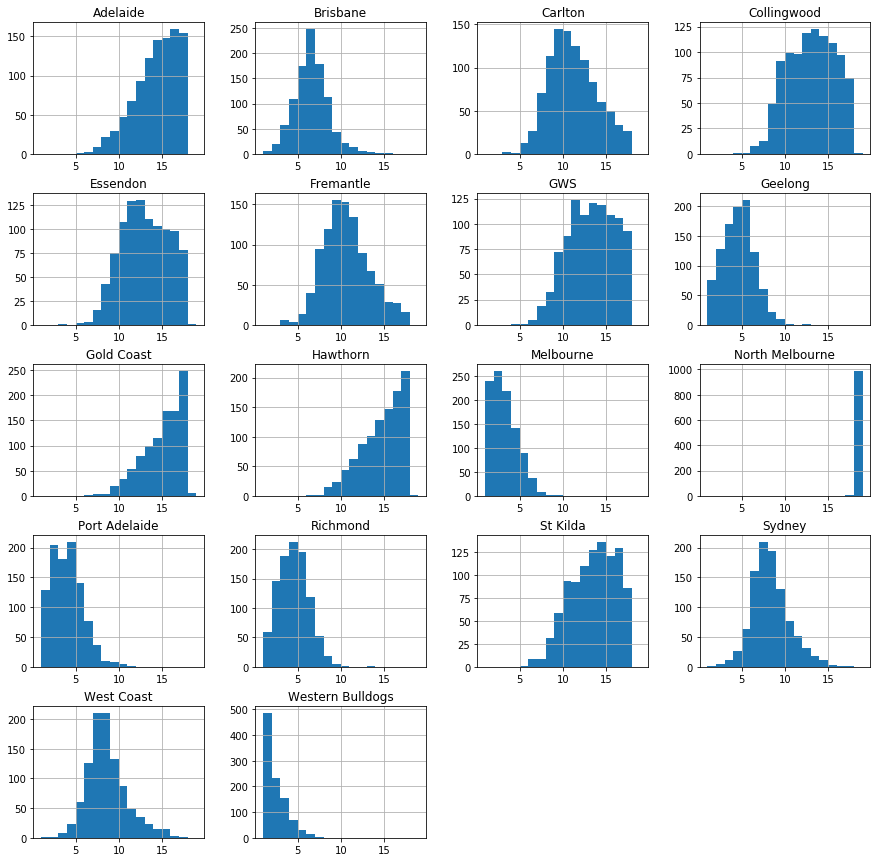
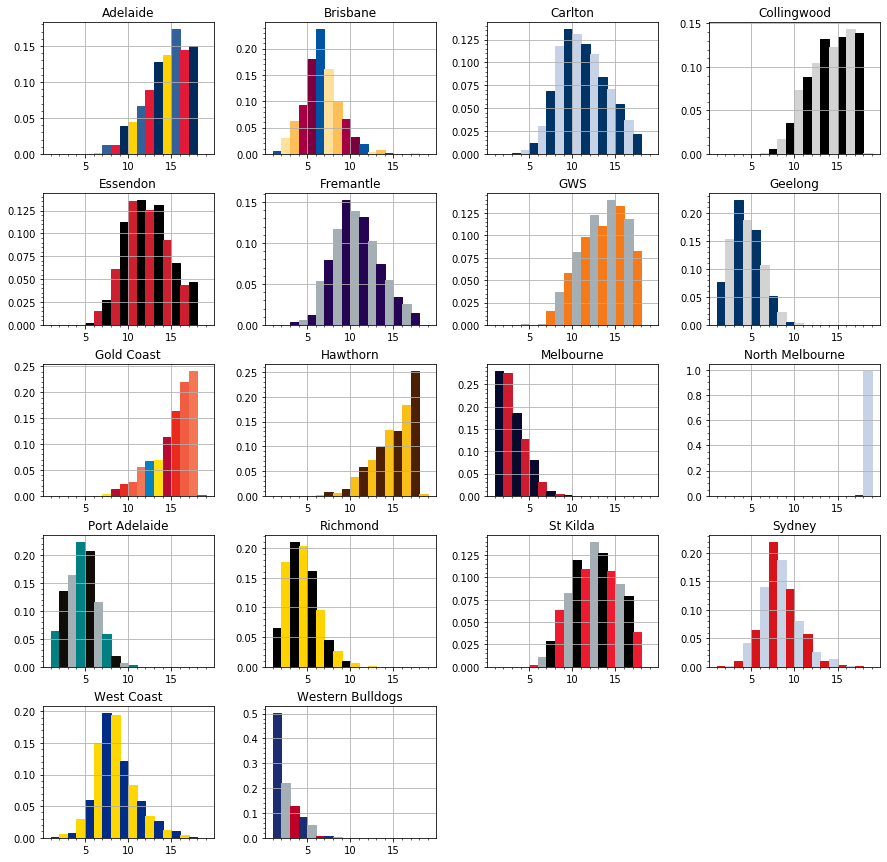
ud

diff --git a/Ladder.py b/Ladder.py
@@ -1,9 +1,9 @@
 from datetime import datetime
 import pandas as pd
 import numpy as np, sys
-from itercools import cycle
+from itertools import cycle
 
-colormap = {'Geelong': () ,
+colormap = {'Geelong': ((0, 51, 102),(211,211,211)) ,
  'Western Bulldogs': ((28, 46, 113),(164, 174, 181), (190, 0, 39)) ,
  'Essendon': ((0, 0, 0),(204, 32, 49)) ,
  'Sydney': ((216, 19, 26),(198, 210, 230)) ,
@@ -13,14 +13,14 @@ colormap = {'Geelong': () ,
  'Fremantle': ((37, 5, 83), (164, 174, 181)),
  'Brisbane': ((0, 84, 164),(255, 225, 155),(253, 191, 87),(165, 0, 68), (124, 0, 62)),
  'Adelaide': ((0, 43, 92),(254, 209, 2), (50, 97, 156), (226, 25, 55)),
- 'West Coast': ((0, 45, 136),(0, 45, 136)),
+ 'West Coast': ((0, 45, 136),(255,215,0)),
  'Gold Coast': ((255, 224, 16),(185, 10, 52),(233, 42, 31),(241, 93, 66), (243, 119, 85),(6, 129, 194)),
  'GWS': ((244, 122, 26),(164, 174, 181)) ,
  'St Kilda': ((0, 0, 0),(237, 27, 47),(164, 174, 181)),
  'Port Adelaide': ((0, 128, 131), (16, 12, 7),(164, 174, 181)),
  'Melbourne': ((7, 9, 45),(205, 26, 46)),
- 'Collingwood': ((0, 0, 0)),
- 'Carlton':((5, 24, 41),(187, 191, 192))
+ 'Collingwood': ((0, 0, 0),(211,211,211)),
+ 'Carlton':((0, 51, 102),(198, 210, 230))
      }
 
 def cm_gen(team):
@@ -47,6 +47,7 @@ class SeasonPredicter:
         self.unplayed = self.this_season.loc[~self.this_season.PLAYED]
         self.played_ladder = self.build_ladder(self.played)
                 
+        
     def build_ladder(self,df):
         
         homewin = (df['HOME SCORE'] > df['AWAY SCORE'])
@@ -211,9 +212,22 @@ class SeasonPredicter:
         return self.cumulative_ladder[team].loc[rank]
     
     def regular_season_histogram(self):
-        return self.finishing_positions.T.hist(figsize=(15,15),bins=range(1,20),density=True)
+        axs = self.finishing_positions.T.hist(figsize=(15,15),bins=range(1,20),density=True)
         
-       
+        for a in axs.flatten():
+            team = a.title.get_text()
+            
+            if not team: continue
+        
+            cmgen = cm_gen(team)
+            for p in a.patches:
+                color = next(cmgen)
+                color = [x/255 for x in color]
+                p.set_color(color)
+            
+            a.minorticks_on()
+        
+        return a.figure
     
 if __name__ == '__main__':
     T = SeasonPredicter(k)

diff --git a/afl.py b/afl.py
@@ -105,7 +105,7 @@ def run(download=False):
     t = PrettyTable()
     t.field_names = ['','HOME','AWAY']
     
-    for ind,match in k.upcoming_fixtures.iloc[:9].iterrows():
+    for ind,match in k.upcoming_fixtures.iloc[:10].iterrows():
         home,away = match.NONVARIABLE.HOME, match.NONVARIABLE.AWAY
                 
         hc, ac, h_exp, a_exp = k.simulate(match)
